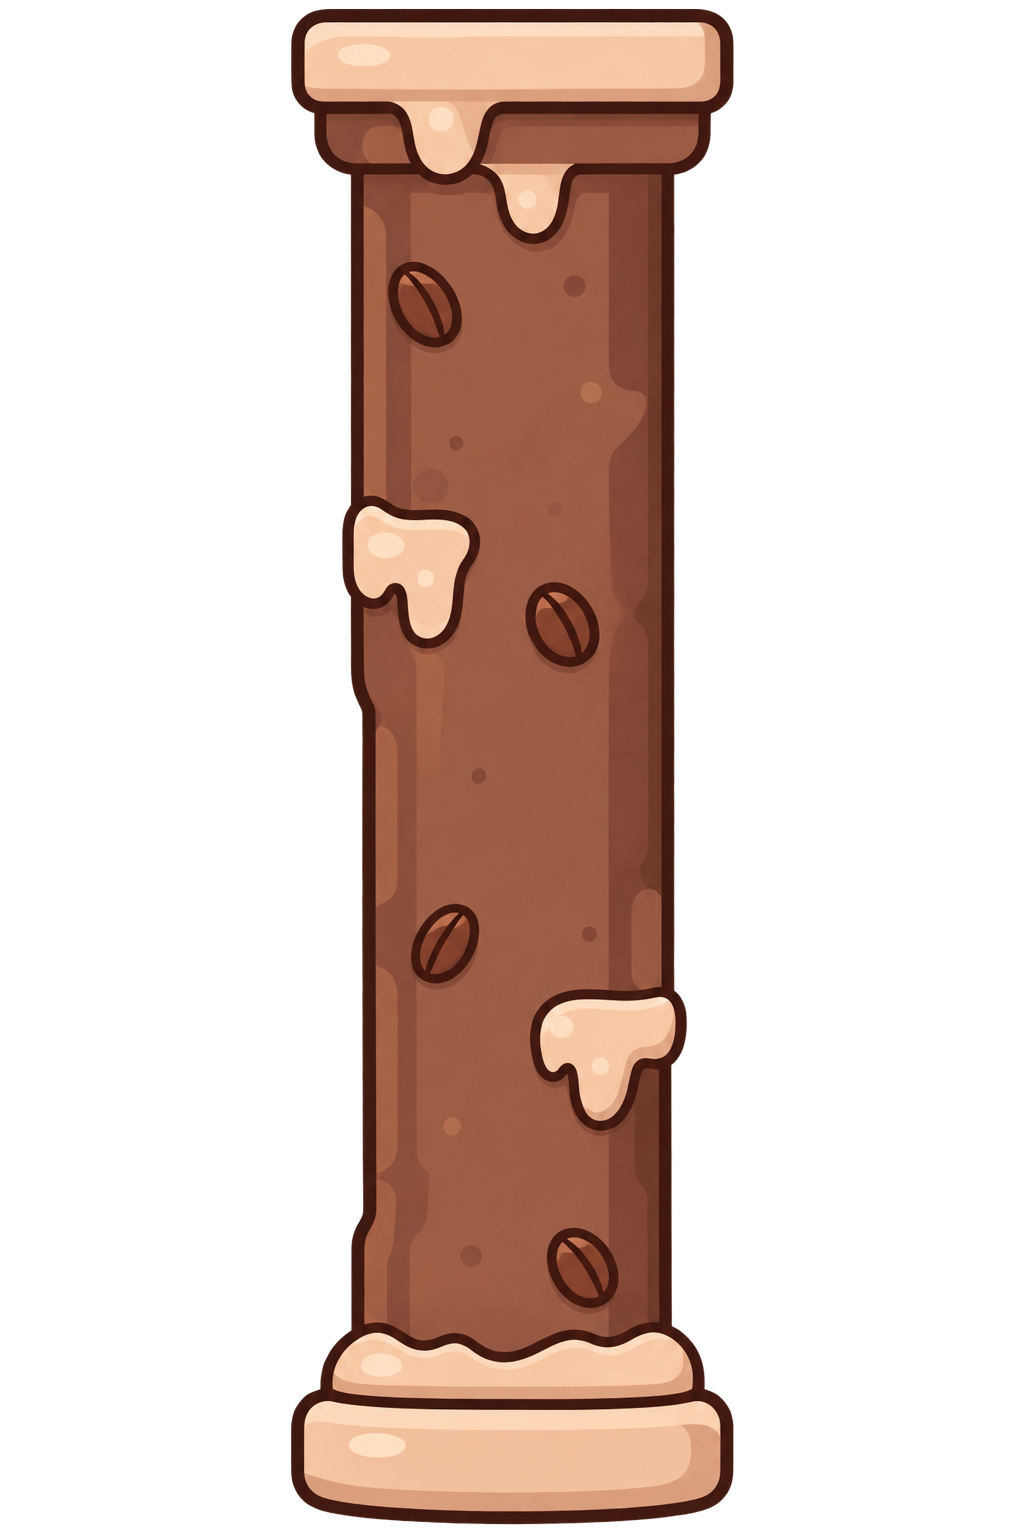
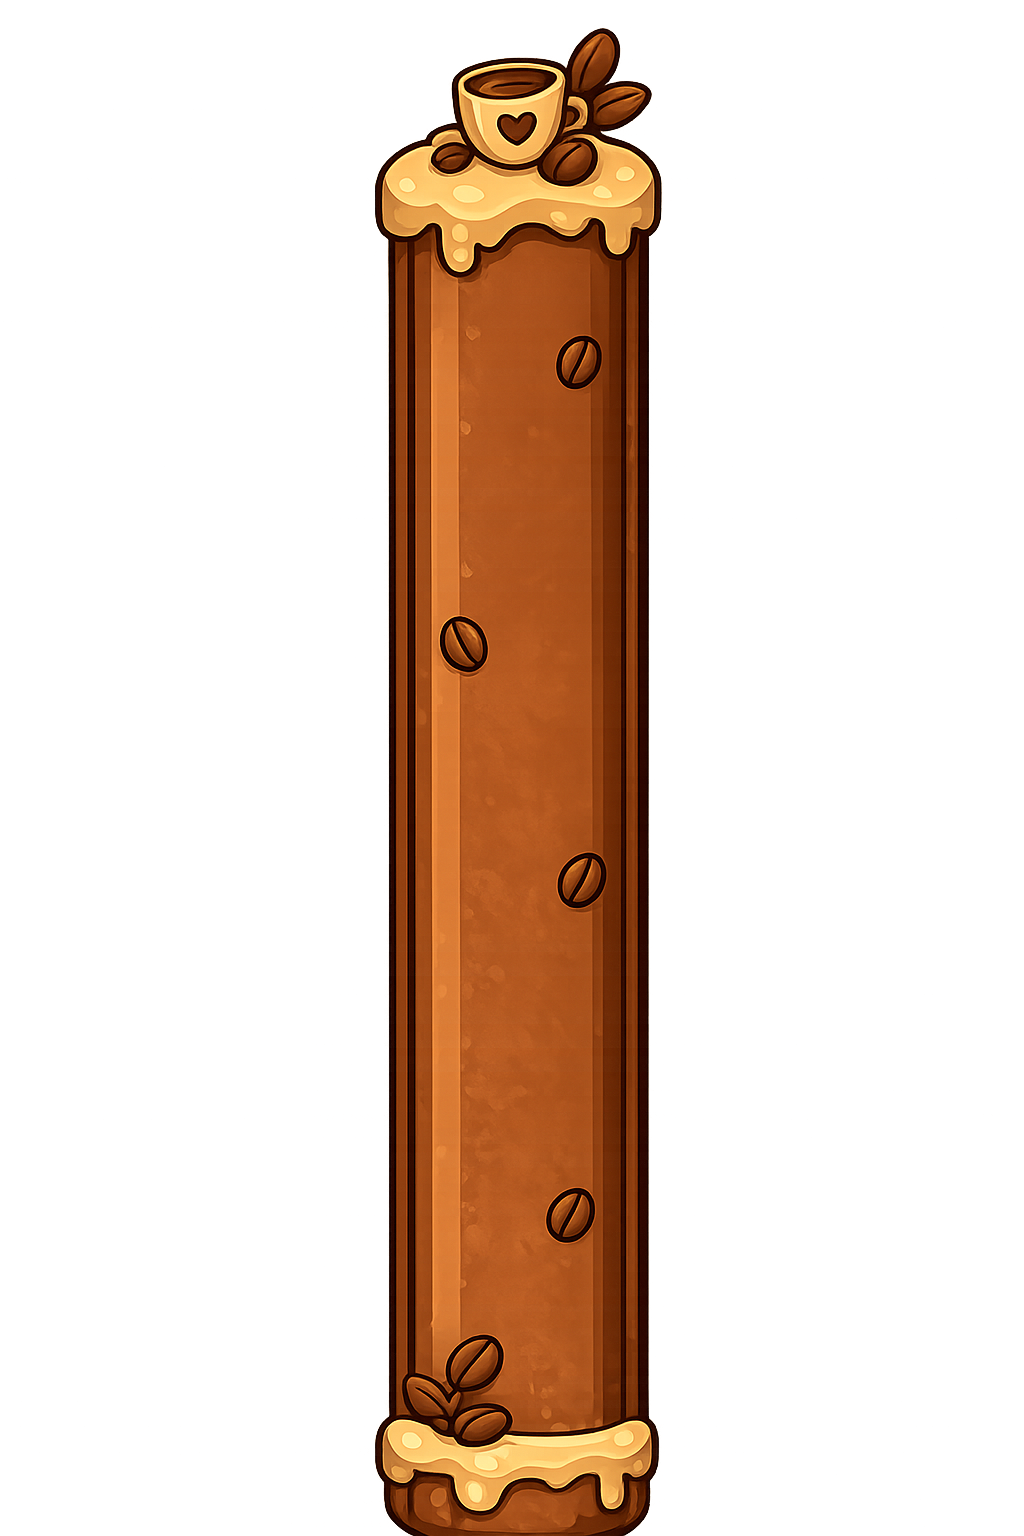
Next save

diff --git a/main.py b/main.py
@@ -1,4 +1,4 @@
-import time, sys, pygame, math
+import time, sys, pygame, math, random
 pygame.init()
 #test
 test = True
@@ -10,19 +10,31 @@ color = 255, 0, 0
 clock = pygame.time.Clock()
 #Backround
 backroundold = pygame.image.load('Assets/backround.png')
-backround = pygame.transform.scale(backroundold, (1254, 1254))
+backround = pygame.transform.scale(backroundold, (1049, 1499))
+backroundflip = pygame.transform.rotate(backround, 180)
 #Pillar
 pillarold = pygame.image.load('Assets/pillar.png')
-pillar = pygame.transform.scale(pillarold, (320, 480))
+pillar = pygame.transform.scale(pillarold, (400, 600))
+pillarflip = pygame.transform.rotate(pillar, 180)
 #Game Vars and Functions
+
+def pillaryfinder():
+    global first_pillary, second_pillary, third_pillary
+    #every 209.8
+    first_pillary = random.randint(-280, -70)
+    second_pillary = random.randint(-280, -70)
+    third_pillary = random.randint(-280, -70)
 #gets width of the backround image 
 backround_width = backround.get_width()
 #sets the backround x position
 backroundx = 0
 #sets the speed that it scrolls can be used to make harder gamemodes
 scrollspeed = 2
-
-
+pillary = -280
+#-70
+#-280
+#Important Game Finct set and Varibles
+pillaryfinder()
 #Run Loop
 running = True
 while running:
@@ -37,11 +49,18 @@ while running:
     #this means that if backround_width is more than or equal to backroundx it sets backroundx to 0
     if backroundx <= -backround_width:
         backroundx = 0
+        pillaryfinder()
     #this displays the backround images
     display.blit(backround, (backroundx, 0))
     #this displays the second image by making the x position backroundx + the width of the first backround
     #idk how i didnt think of this in the 3 days i spent on this problem
     display.blit(backround, (backroundx + backround_width, 0))
-    display.blit(pillar, (0, 100))
+    if scrollspeed == 2:
+        if backroundx <= -208:
+            display.blit(pillar, (backroundx + 808, first_pillary))
+            display.blit(pillarflip, (backroundx + 808, first_pillary + 750))
+        if backroundx <= -416:
+            display.blit(pillar, (backroundx + 1116, second_pillary))
+            display.blit(pillarflip, (backroundx + 1116, second_pillary + 750))
     pygame.display.update()
     clock.tick(60)
